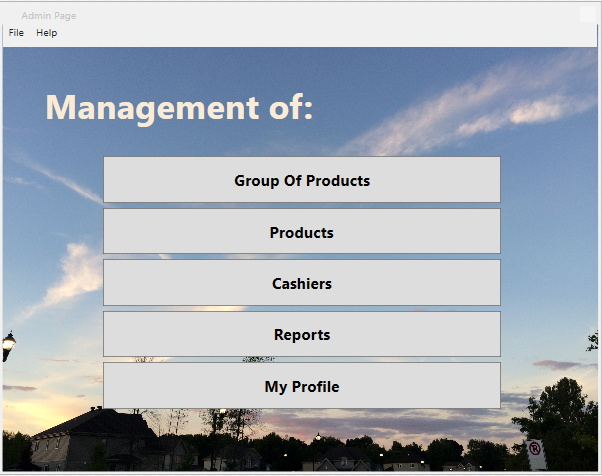
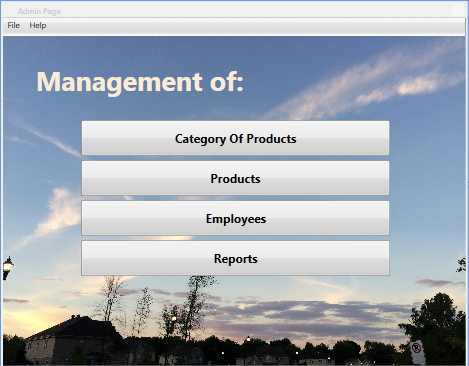
-- Ali -- Some small changes

diff --git a/Admin.xaml b/Admin.xaml
@@ -24,11 +24,10 @@
             </MenuItem>
         </Menu>
         <Label x:Name="label" Content="Management of:" HorizontalAlignment="Left" Foreground="AntiqueWhite" FontSize="40" FontWeight="Bold"  Height="75" Margin="44,62,0,0" VerticalAlignment="Top" Width="491"/>
-        <Button x:Name="btnGroupOfProducts" Content="Group Of Products" HorizontalAlignment="Left" Height="54" FontSize="18" Foreground="Black" FontWeight="Bold" Margin="117,154,0,0" VerticalAlignment="Top" Width="464"/>
+        <Button x:Name="btnGroupOfProducts" Content="Category Of Products" HorizontalAlignment="Left" Height="54" FontSize="18" Foreground="Black" FontWeight="Bold" Margin="117,154,0,0" VerticalAlignment="Top" Width="464"/>
         <Button x:Name="btnProducts" Content="Products" HorizontalAlignment="Left" Height="54" FontSize="18" Foreground="Black" FontWeight="Bold" Margin="117,214,0,0" VerticalAlignment="Top" Width="464"/>
-        <Button x:Name="btnCashiers" Content="Cashiers" HorizontalAlignment="Left" Height="54" FontSize="18" Foreground="Black" FontWeight="Bold" Margin="117,274,0,0" VerticalAlignment="Top" Width="464"/>
+        <Button x:Name="btnCashiers" Content="Employees" HorizontalAlignment="Left" Height="54" FontSize="18" Foreground="Black" FontWeight="Bold" Margin="117,274,0,0" VerticalAlignment="Top" Width="464"/>
         <Button x:Name="btnReports" Content="Reports" HorizontalAlignment="Left" Height="54" FontSize="18" Foreground="Black" FontWeight="Bold" Margin="117,334,0,0" VerticalAlignment="Top" Width="464"/>
-        <Button x:Name="btnMyProfile" Content="My Profile" HorizontalAlignment="Left" Height="54" FontSize="18" Foreground="Black" FontWeight="Bold" Margin="117,394,0,0" VerticalAlignment="Top" Width="464"/>
 
     </Grid>
 </Window>
